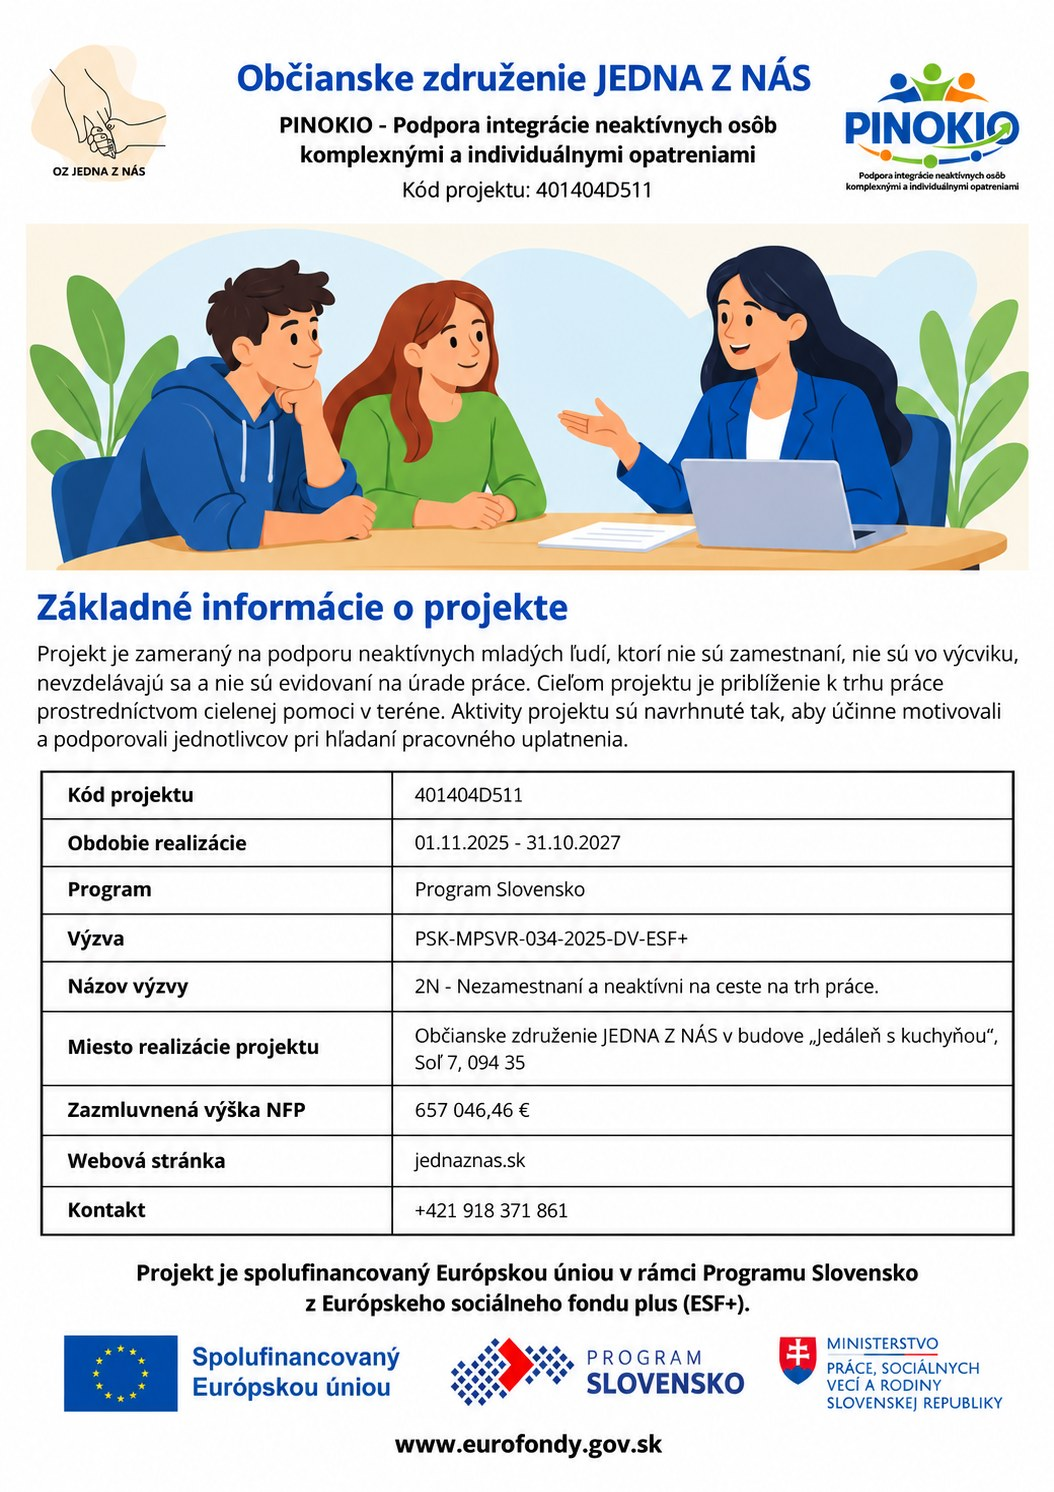
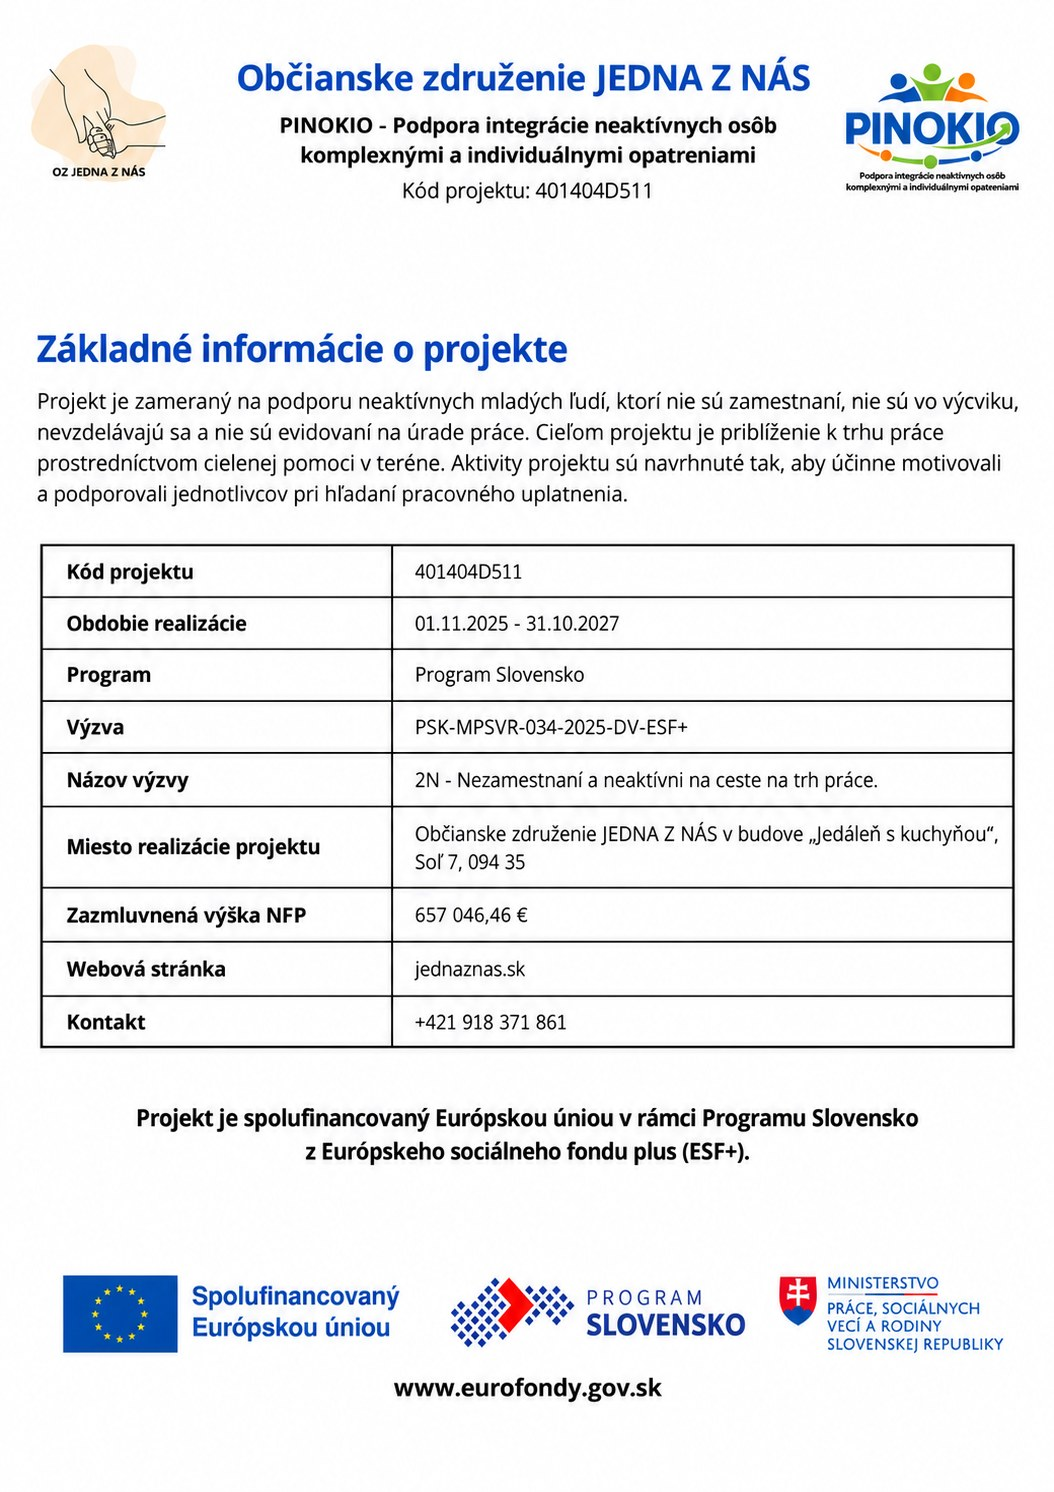
PINOKIO: plagát bez ilustrácie a nový leták projektu

diff --git a/src/pages/ProjectDetailPage.vue b/src/pages/ProjectDetailPage.vue
@@ -150,7 +150,7 @@
         <section class="posters-section">
           <h2 class="section-header">
             <q-icon name="image" color="primary" size="26px" />
-            Plagáty projektu
+            Plagáty a leták projektu
           </h2>
           <div class="posters-row">
             <figure v-for="poster in posters" :key="poster.src" class="poster">
@@ -240,6 +240,7 @@ import EuFundingBar from 'components/EuFundingBar.vue';
 import { findProject } from 'src/data/projects';
 import plagatUrl from 'assets/plagat.jpg';
 import plagatKontaktUrl from 'assets/plagat_kontakt.jpg';
+import letakUrl from 'assets/letak.jpg';
 
 interface Poster {
   src: string;
@@ -257,6 +258,11 @@ const posters: Poster[] = [
     src: plagatKontaktUrl,
     title: 'Kontaktná dostupnosť',
     alt: 'Plagát Kontaktná dostupnosť projektu PINOKIO: pondelok až piatok 8:00 – 17:00, kontaktná osoba Mgr. Mária Saraková, telefón +421 918 371 861',
+  },
+  {
+    src: letakUrl,
+    title: 'Leták projektu',
+    alt: 'Leták projektu PINOKIO: Hľadáš prácu? Nie si na to sám/sama. Ponúkame individuálne poradenstvo, pomoc so životopisom a pohovorom, pracovné ponuky a rozvoj pracovných návykov pre mladých ľudí do 30 rokov. Zapojenie je bezplatné. Kontakt: +421 918 371 861, jednaznasoz@gmail.com',
   },
 ];
 
